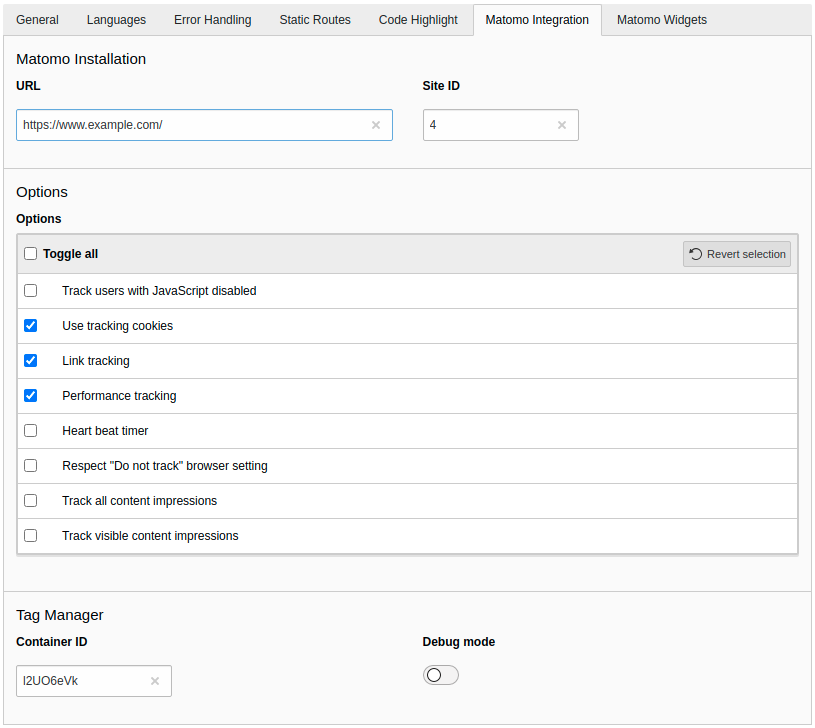
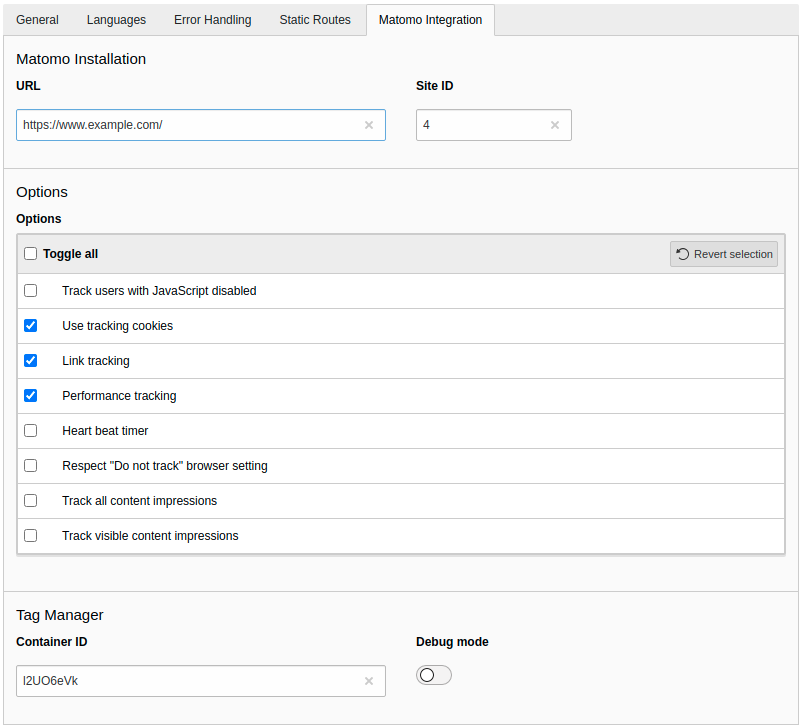
[TASK] Add information about using env variables

diff --git a/Configuration/SiteConfiguration/Overrides/sites.php b/Configuration/SiteConfiguration/Overrides/sites.php
@@ -69,7 +69,7 @@ $GLOBALS['SiteConfiguration']['site']['columns'] += [
         'label' => Brotkrueml\MatomoIntegration\Extension::LANGUAGE_PATH_SITECONF . ':tagManagerContainerId',
         'config' => [
             'type' => 'input',
-            'size' => 10,
+            'size' => 30,
             'eval' => 'trim',
         ],
     ],

diff --git a/Documentation/Configuration/Index.rst b/Documentation/Configuration/Index.rst
@@ -104,6 +104,17 @@ Container ID
 
    Default: *empty string*
 
+   Examples for possible values:
+
+   - Live: `l2UO6eVk`
+   - Dev: `l2UO6eVk_dev_600e4be39a8bfd98bf71f295`
+   - Staging: `l2UO6eVk_staging_6584c7e4727fcb9180530d6d`
+
+.. hint::
+   It is possible to define different container IDs for different environments
+   (such as Live, Dev, Staging) using :ref:`environment variables
+   <t3coreapi:sitehandling-using-env-vars>`.
+
 Debug Mode
    When the `debug mode`_ is enabled various debug messages are logged to the
    developer console.
@@ -119,9 +130,9 @@ Debug Mode
 .. _accurately measure the time spent: https://matomo.org/faq/how-to/faq_21824/
 .. _content tracking: https://matomo.org/docs/content-tracking/
 .. _debug mode: https://developer.matomo.org/guides/tagmanager/debugging#developer-console-log-messages
-.. _enables cookies tracking: https://matomo.org/faq/general/faq_157/
 .. _don't want to be tracked: https://matomo.org/docs/privacy-how-to/#step-4-respect-donottrack-preference#step-4-respect-donottrack-preference
 .. _download and outlink tracking: https://matomo.org/faq/new-to-piwik/faq_71/
+.. _enables cookies tracking: https://matomo.org/faq/general/faq_157/
 .. _feature request: https://github.com/brotkrueml/typo3-matomo-integration/issues/new
 .. _Matomo Tag Manager: https://matomo.org/docs/tag-manager/
 .. _tracking of performance data: https://matomo.org/faq/how-to/how-do-i-see-page-performance-reports/
